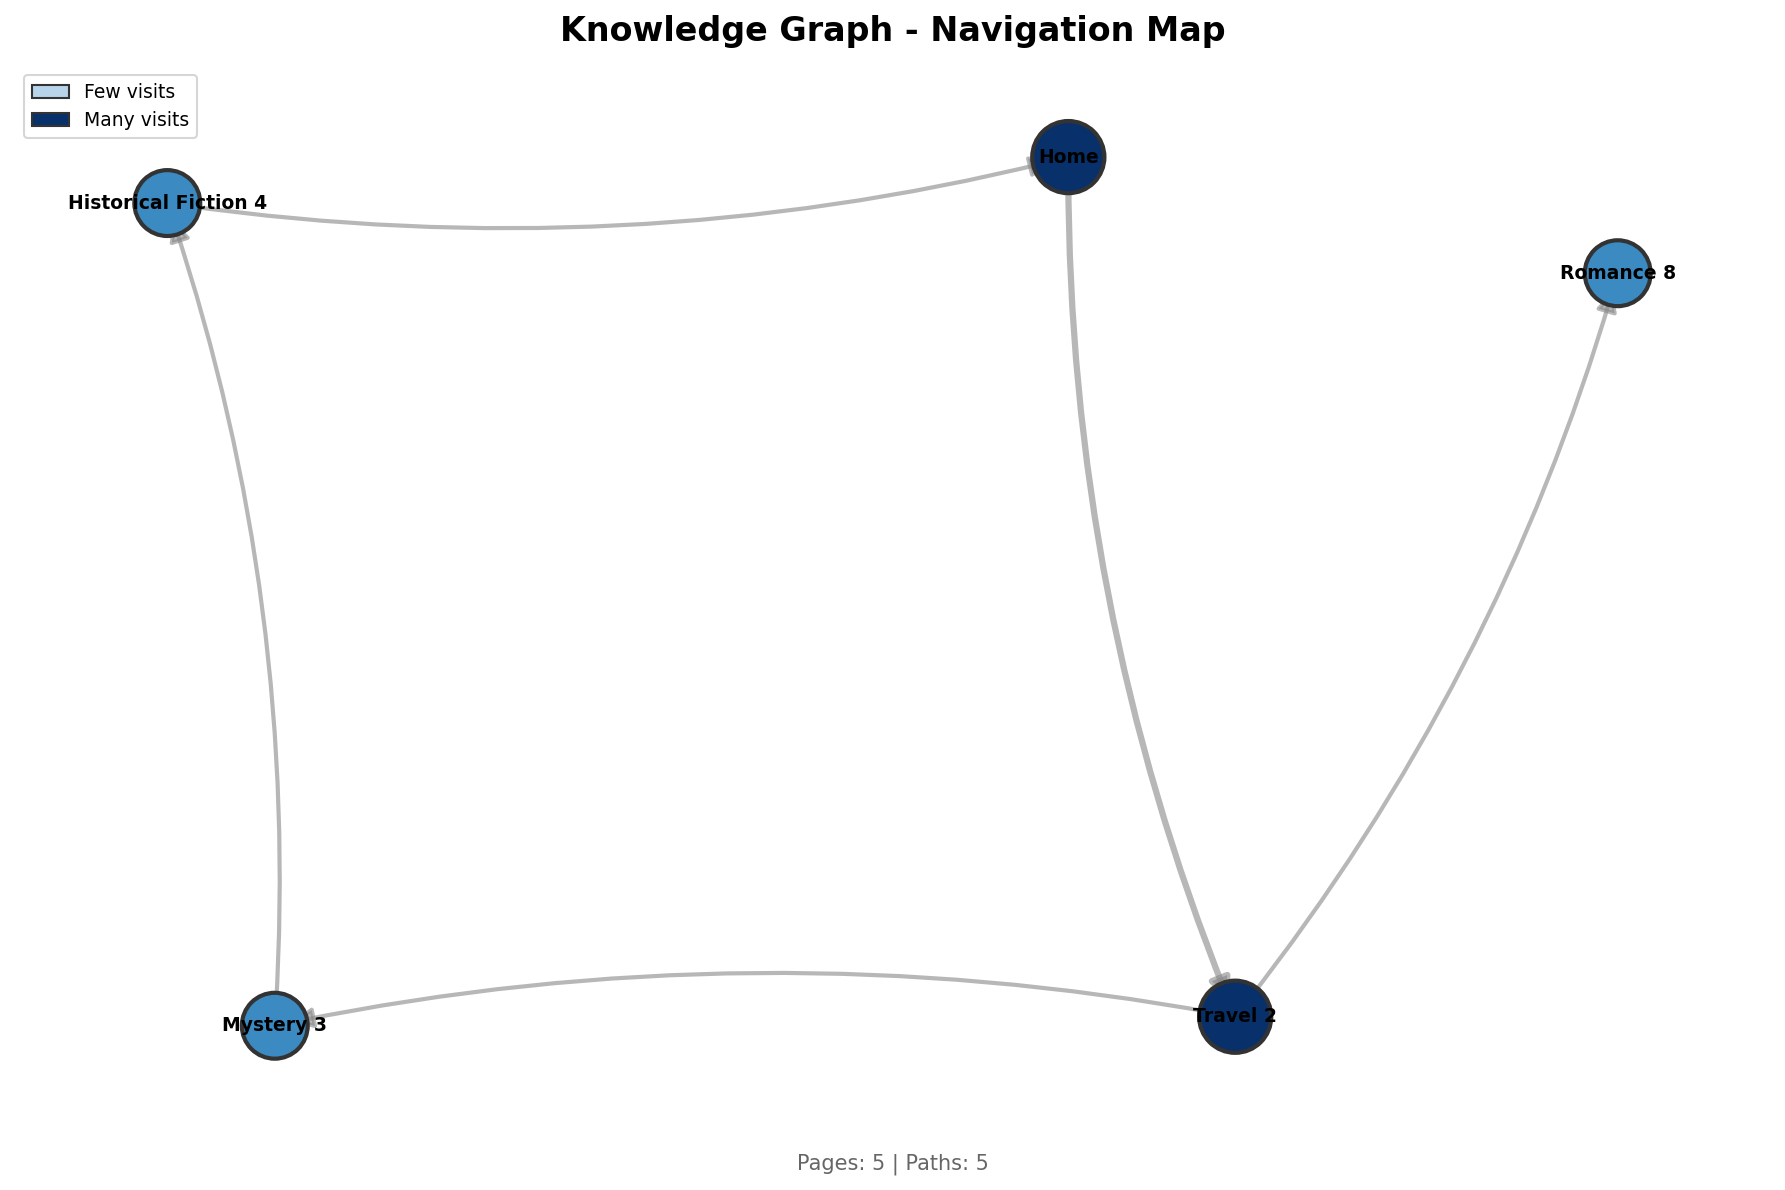
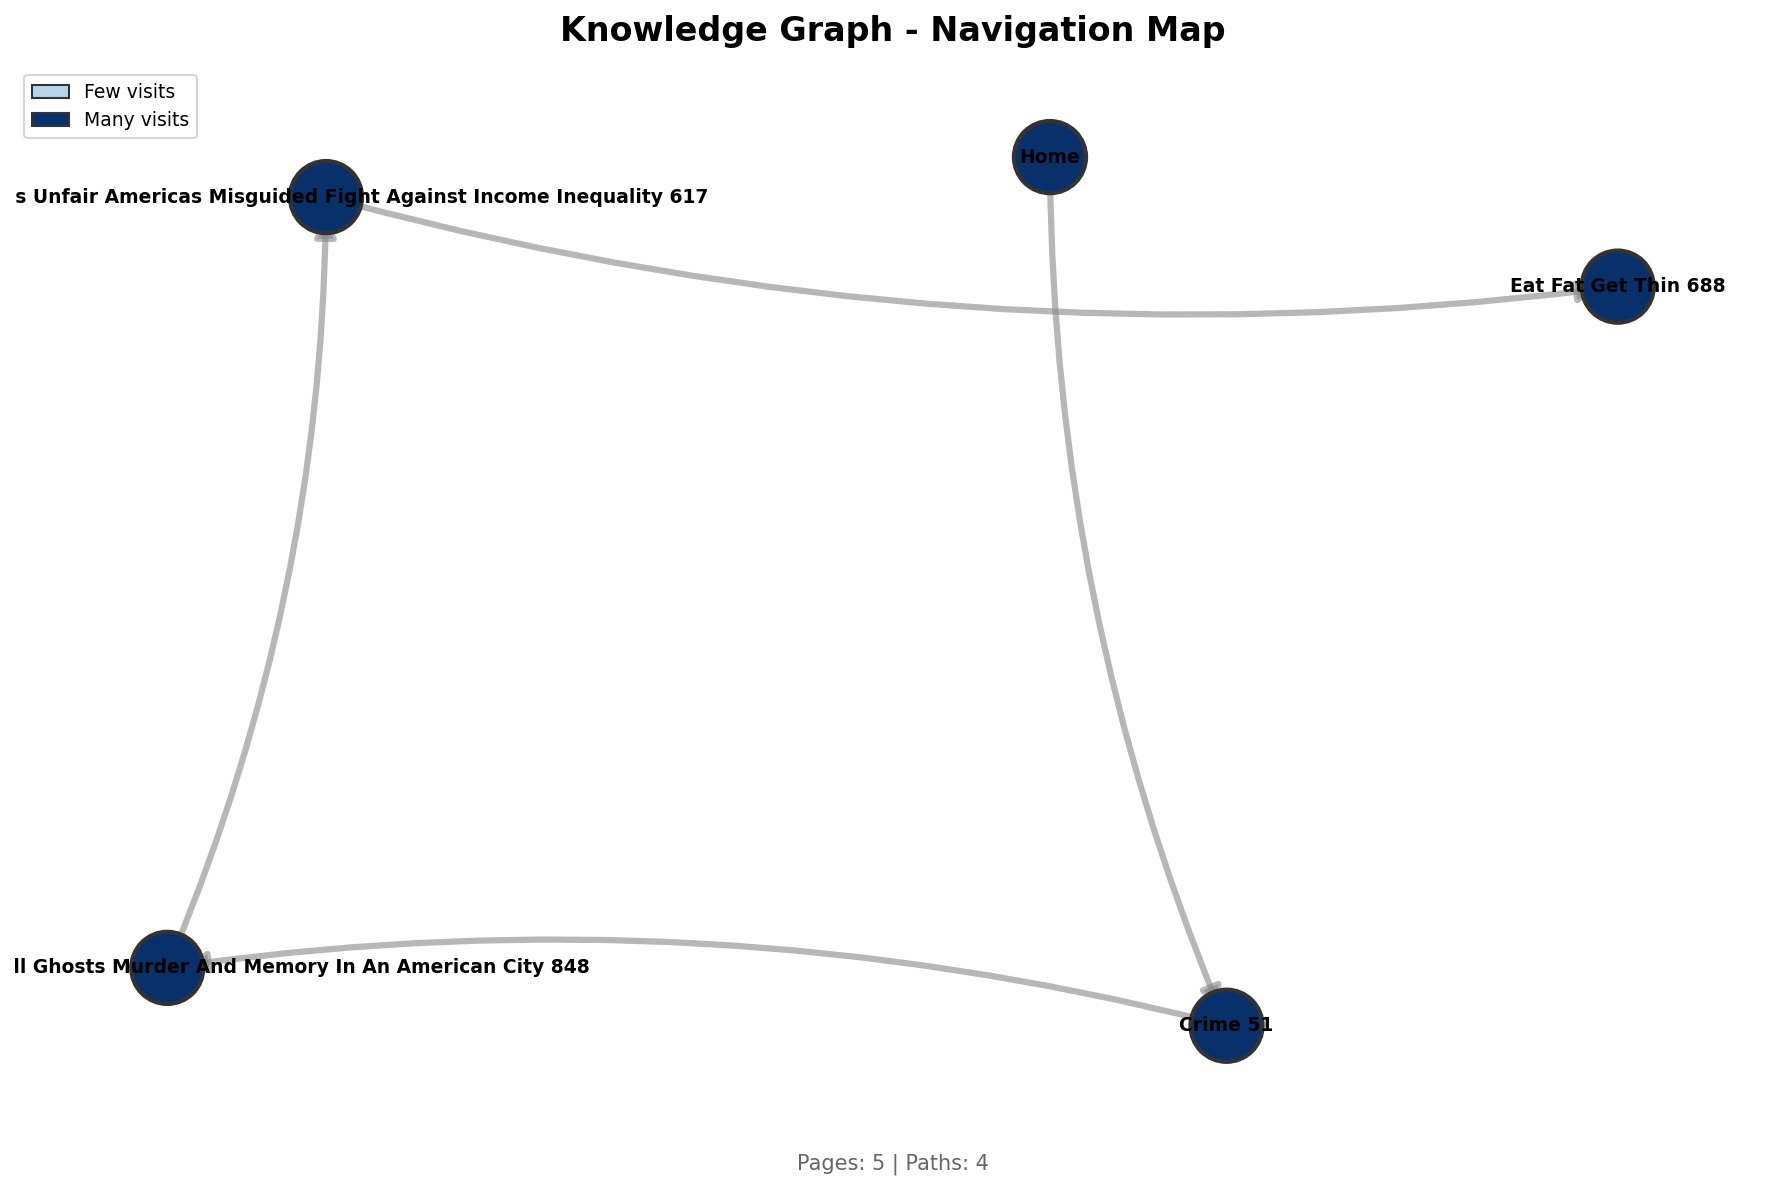
Updated README and refactored project

diff --git a/user_trace/tracker/browser.py b/user_trace/tracker/browser.py
@@ -1,7 +1,7 @@
 """
 Playwright browser lifecycle and event wiring.
 
-This module contains the thin BrowserTracker orchestrator that launches
+This module contains the BrowserTracker orchestrator that launches
 a Chromium browser, wires Playwright events to an EventCollector,
 and delegates analysis / visualisation to the appropriate modules.
 """
@@ -38,7 +38,6 @@ class BrowserTracker:
 
     def _data_dir(self) -> str:
         """Return the path to the data output directory."""
-        # scripts/tracker/browser.py  →  scripts/tracker  →  scripts  →  project root
         return os.path.join(
             os.path.dirname(os.path.dirname(os.path.dirname(os.path.abspath(__file__)))),
             "data"
@@ -117,7 +116,6 @@ class BrowserTracker:
 
             # Navigate to starting URL
             page.goto(start_url, wait_until="domcontentloaded")
-            # Note: The load/framenavigated event handlers will log the initial page
 
             log(f"\n  {colored('[Browser is open - navigate freely]', Colors.GREEN)}")
 
@@ -144,26 +142,3 @@ class BrowserTracker:
                 browser.close()
 
         self._print_summary()
-
-
-def main():
-    if len(sys.argv) > 1:
-        url = sys.argv[1]
-    else:
-        url = input("\nEnter the URL to explore: ").strip()
-
-    if not url:
-        print("Error: No URL provided")
-        sys.exit(1)
-
-    if not url.startswith(("http://", "https://")):
-        url = "https://" + url
-
-    user_id = sys.argv[2] if len(sys.argv) > 2 else USER_ID
-
-    tracker = BrowserTracker(user_id=user_id)
-    tracker.start(url)
-
-
-if __name__ == "__main__":
-    main()

diff --git a/main.py b/main.py
@@ -1,5 +1,5 @@
 """
-AutoUIExplorer – Browser Navigation Tracker
+AutoUIExplorer - Browser Navigation Tracker
 
 Usage:
   python main.py --track [URL]   → Track a website  
@@ -13,7 +13,7 @@ import os
 sys.path.insert(0, os.path.dirname(os.path.abspath(__file__)))
 
 
-def run_tracker(url: str):
+def main(url: str):
     """Launch the browser tracker to explore a website."""
     from user_trace.tracker.browser import BrowserTracker
     
@@ -54,6 +54,6 @@ if __name__ == "__main__":
     elif "--track" in sys.argv:
         idx = sys.argv.index("--track")
         url = sys.argv[idx + 1] if idx + 1 < len(sys.argv) else None
-        run_tracker(url)
+        main(url)
     else:
         print_help()

diff --git a/user_trace/ui/visualizer.py b/user_trace/ui/visualizer.py
@@ -97,5 +97,4 @@ def visualize_knowledge_graph(graph: nx.DiGraph, output_dir: str):
     print(f"  {colored('KNOWLEDGE GRAPH IMAGE SAVED TO:', Colors.YELLOW + Colors.BOLD)}")
     print(f"    {colored(graph_image_path, Colors.GREEN)}")
 
-    # Show the graph
     plt.show()

diff --git a/README.md b/README.md
@@ -2,8 +2,6 @@
 
 **Real-time browser navigation tracker with knowledge graph visualization**
 
-Built for the Motorola Solutions
-
 ---
 
 ## What It Does
@@ -13,6 +11,10 @@ Track how users navigate any website by:
 - **Building a knowledge graph** of navigation patterns
 - **Calculating comprehension level** based on exploration depth
 - **Visualizing the graph** with matplotlib on session end
+
+## 2/28/2026
+
+This code is not MVP ready for the full-scale AutoUIExplorer, but represents a core implementation for tracking where a user is traversing in a SaaS application.
 
 ## Quick Start
 
@@ -27,7 +29,7 @@ playwright install chromium
 python main.py --track https://example.com
 ```
 
-A browser window opens. Navigate freely — your actions are logged in real-time.
+A browser window opens. Navigate freely and your actions are logged in real-time.
 
 ### 3. Close the browser
 When done, close the browser to see:
@@ -50,28 +52,39 @@ After a session, find these in the `data/` folder:
 | Proficient | 6-9 pages, 4+ paths |
 | Expert     | 10+ pages, 8+ paths |
 
+NOTE: Comprehension level is currently a placeholder until we establish a formal definition of a users comprehension.
+
 ## Project Structure
 
 ```
-├── main.py                 # Entry point
-├── requirements.txt        # Dependencies
-├── scripts/
-│   └── browser_tracker.py  # Core tracking logic
-└── data/                   # Output (auto-generated)
-    ├── knowledge_graph.json
-    └── knowledge_graph.png
+├── main.py                          # Entry point — parses CLI args, launches tracker
+├── requirements.txt                 # Python dependencies
+├── data/                            # Output (auto-generated)
+│   ├── knowledge_graph.json         #   Graph data (nodes & edges)
+│   └── knowledge_graph.png          #   Graph visualization image
+└── user_trace/                      # Core package
+    ├── __init__.py
+    ├── tracker/
+    │   ├── __init__.py
+    │   ├── browser.py               #   Orchestrator — launches Chromium, wires events
+    │   └── event_collector.py       #   Filters, deduplicates & records navigations
+    ├── graph/
+    │   ├── __init__.py
+    │   ├── knowledge_graph.py       #   Directed graph model (NetworkX) + JSON export
+    │   └── url_utils.py             #   URL normalization & feature-ID helpers
+    ├── analysis/
+    │   ├── __init__.py
+    │   └── comprehension.py         #   Comprehension-level scoring (Novice → Expert)
+    └── ui/
+        ├── __init__.py
+        ├── console.py               #   ANSI color helpers & flush-safe logging
+        └── visualizer.py            #   Matplotlib graph rendering & PNG export
 ```
 
 ## Dependencies
 
-**1. Dynamic Mode (Browser Tracking)**
-Track any website in real-time. The knowledge graph is built dynamically as you browse.
-```bash
-python main.py --track https://your-app.com
-```
-
-**2. Mock Mode (for testing)**
-Use a predefined knowledge graph with the `simulate_mock.py` script.
-```bash
-python scripts/simulate_mock.py
-``` 
+| Package | Purpose |
+|---------|---------|
+| [Playwright](https://playwright.dev/python/) | Launches and controls a real Chromium browser |
+| [NetworkX](https://networkx.org/) | Directed-graph data structure for the knowledge graph |
+| [Matplotlib](https://matplotlib.org/) | Renders the graph visualization and saves it as PNG |
